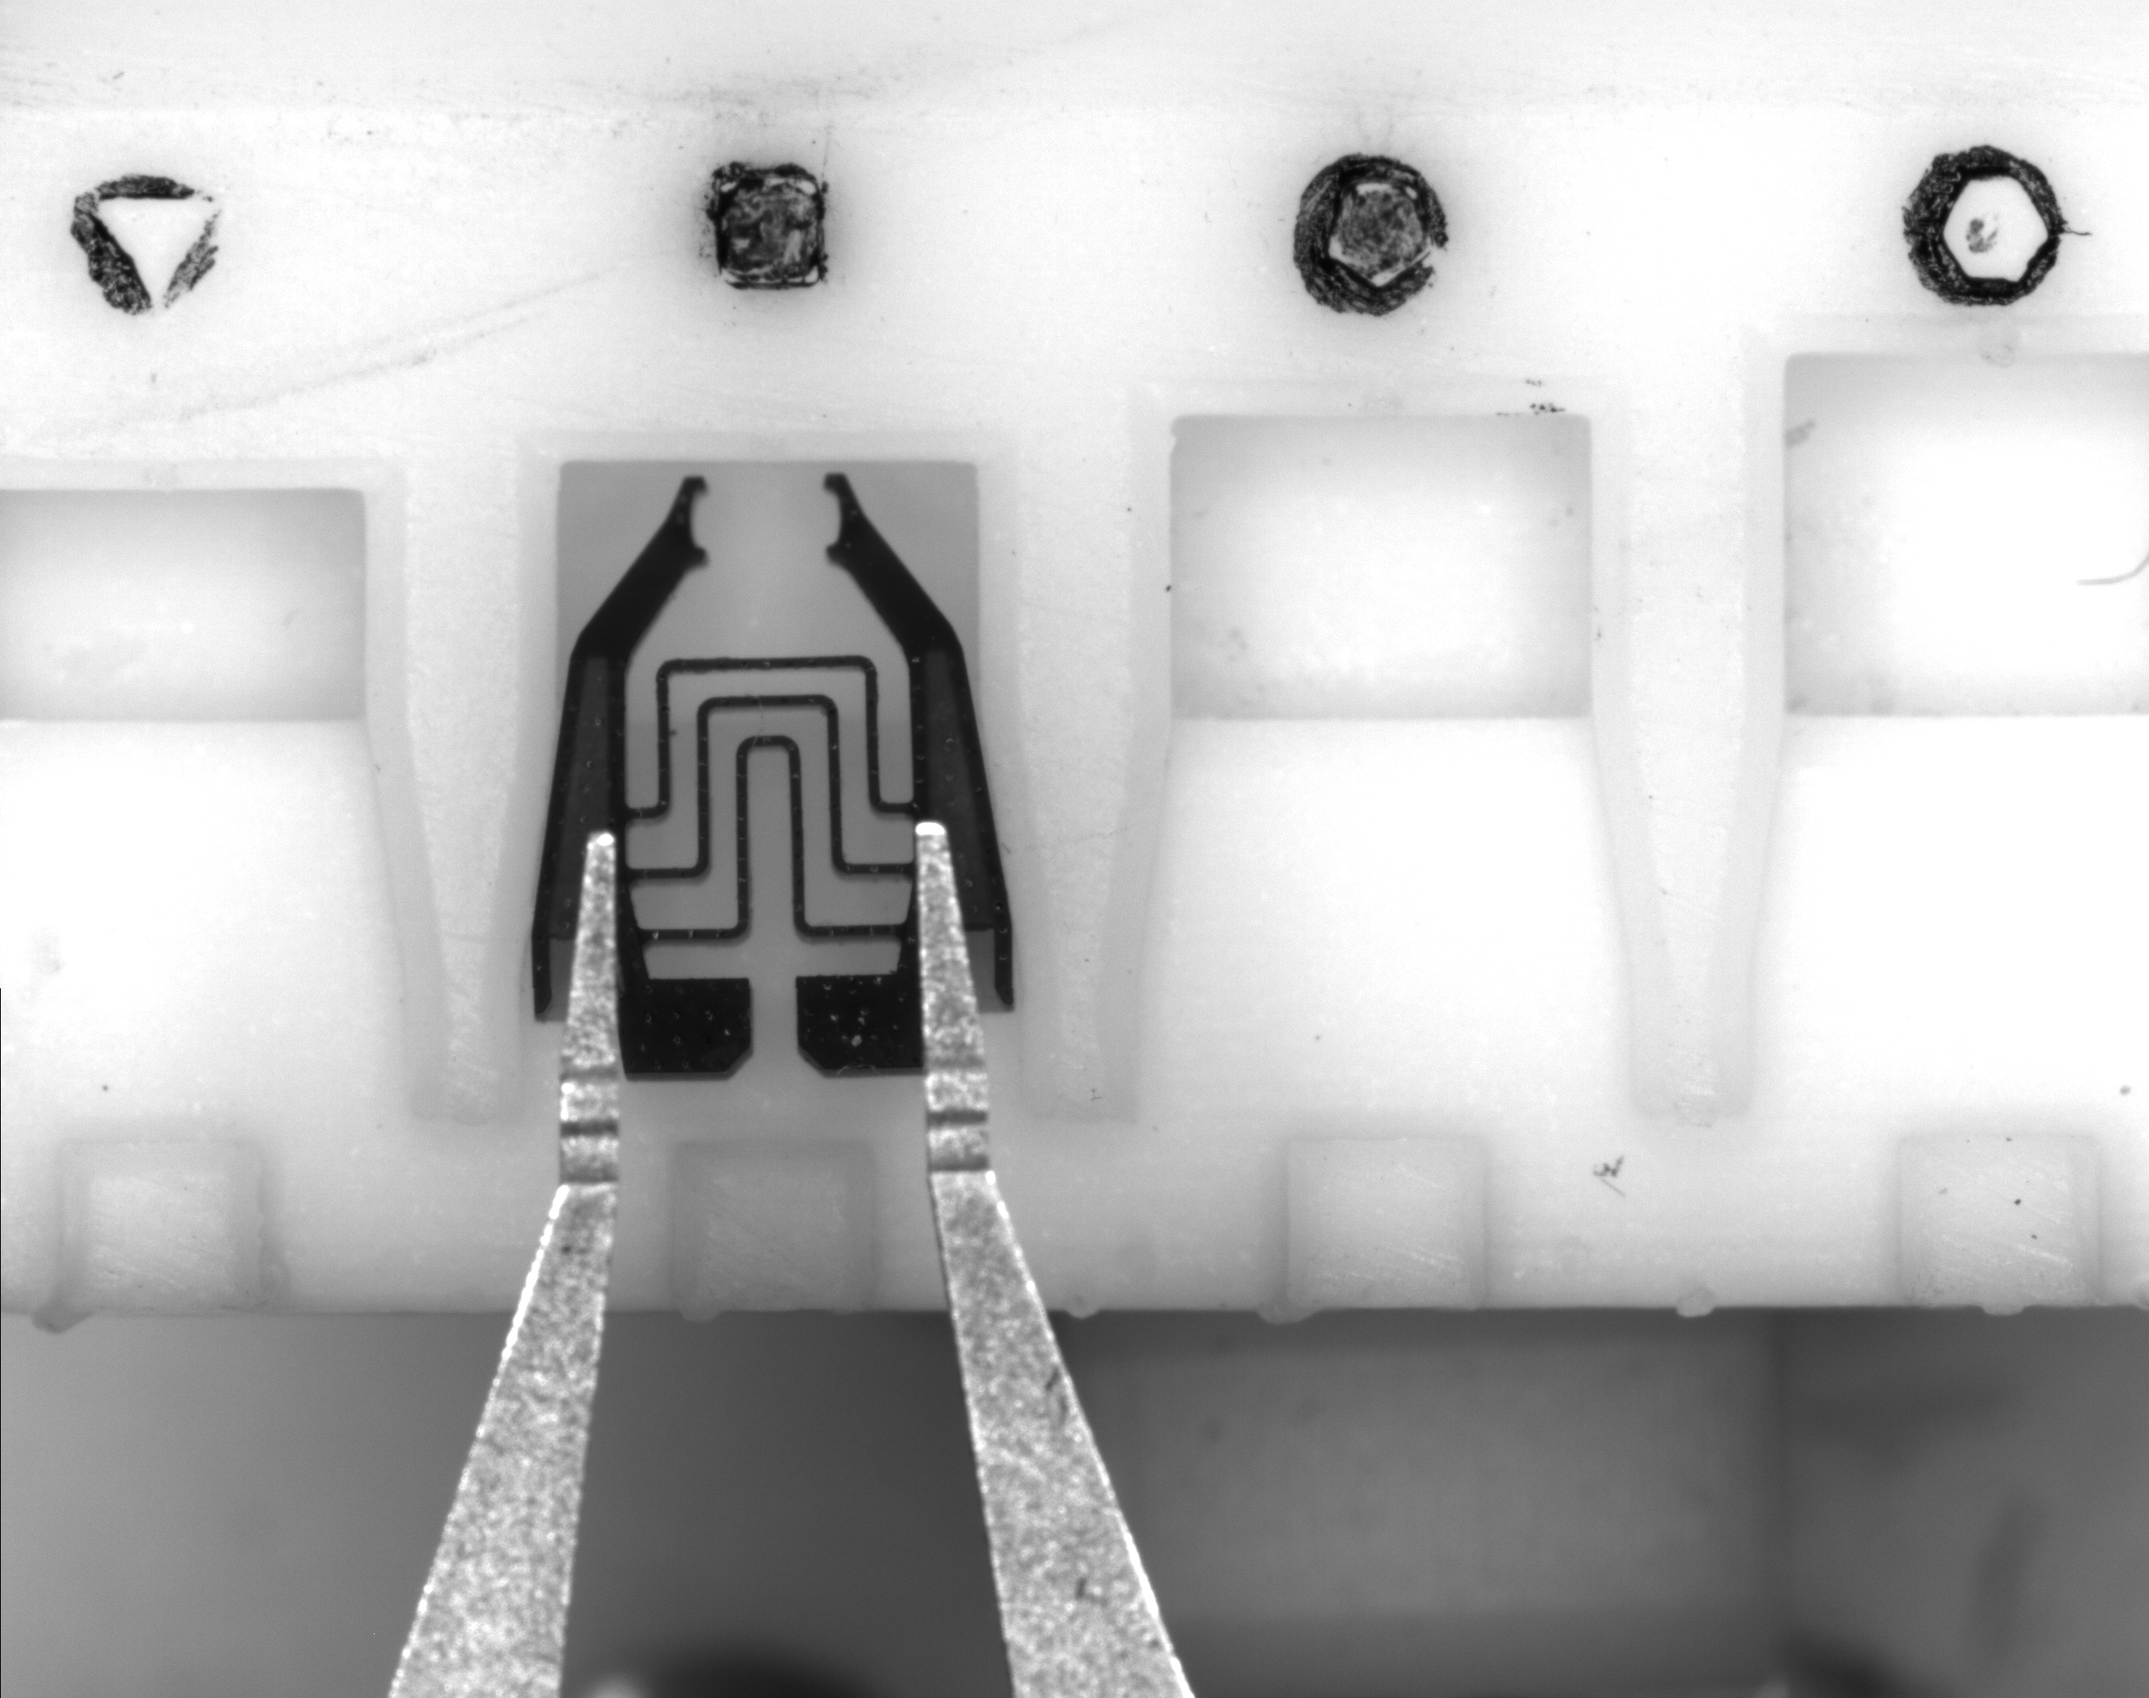
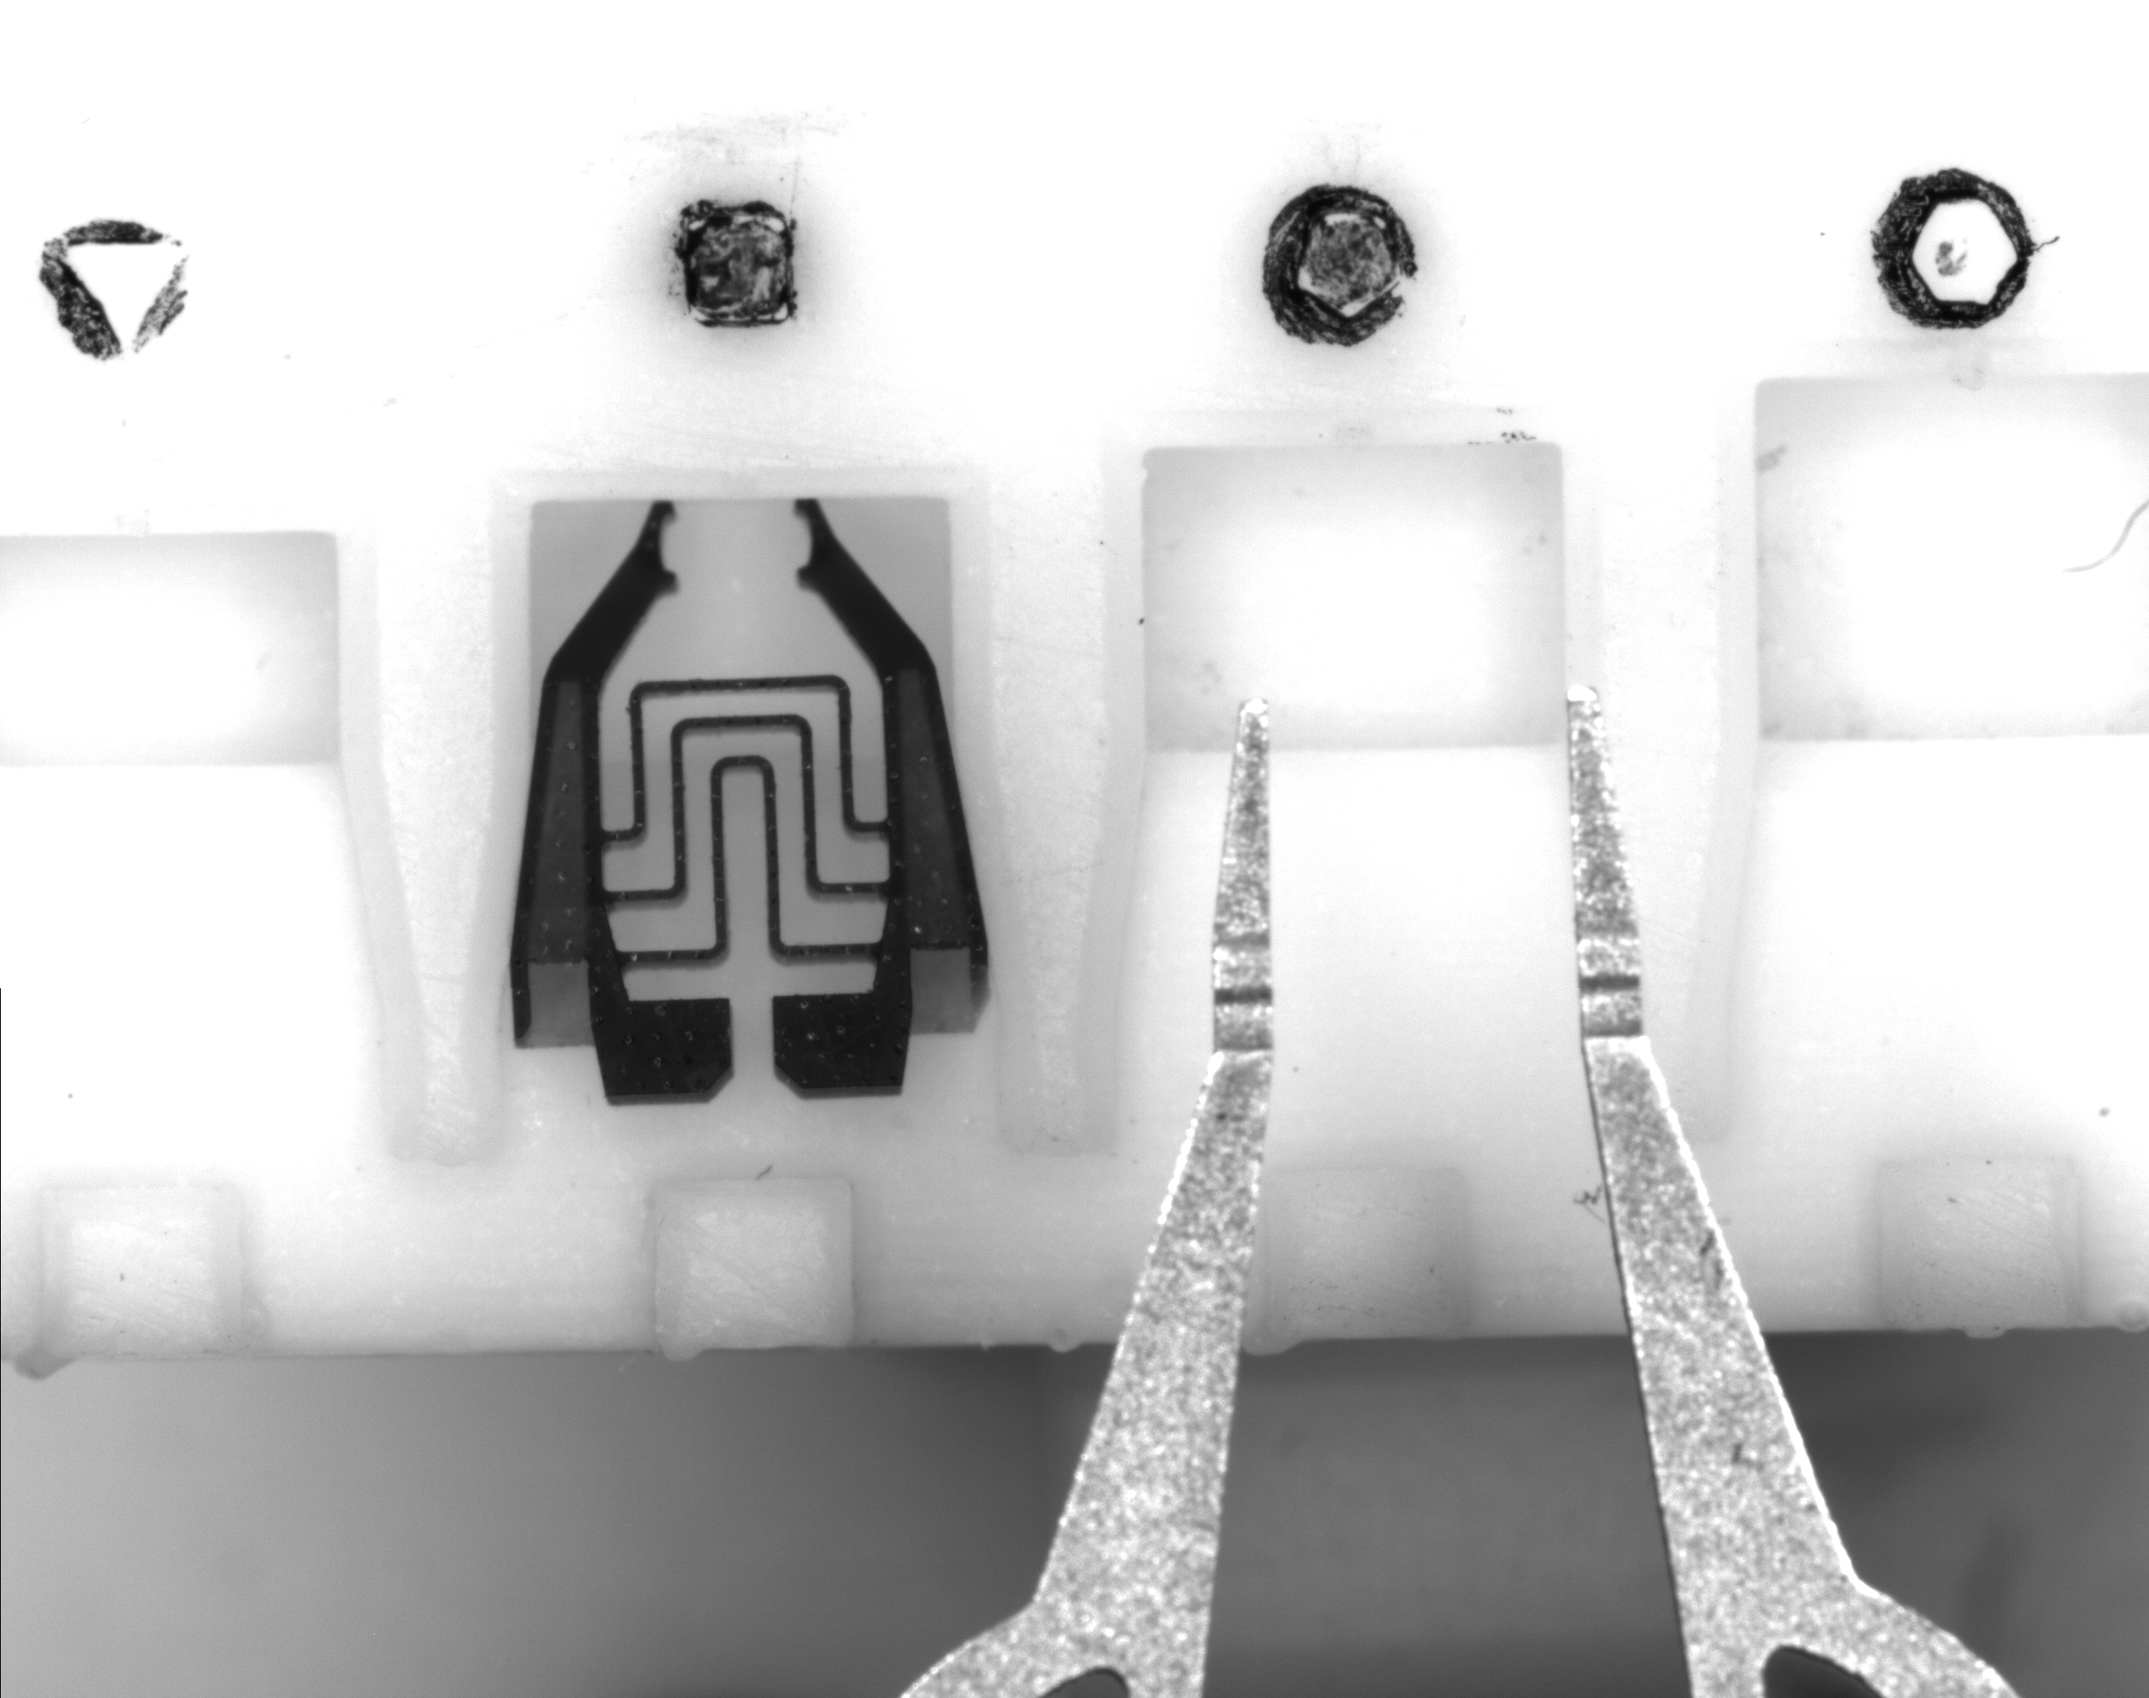
简单调试

diff --git a/test.cpp b/test.cpp
@@ -11,23 +11,23 @@ int main() {
     std::cout << "Hello Robot!" << std::endl;
     D5R::D5Robot robot;
 
-    // try {
-    //     robot.InitNator();
-    // } catch (D5R::RobotException &e) {
-    //     std::cout << e.what() << std::endl;
-    // }
+    try {
+        robot.InitNator();
+    } catch (D5R::RobotException &e) {
+        std::cout << e.what() << std::endl;
+    }
 
-    // try {
-    //     robot.InitRMD(port.c_str());
-    // } catch (D5R::RobotException &e) {
-    //     std::cout << e.what() << std::endl;
-    // }
+    try {
+        robot.InitRMD(port.c_str());
+    } catch (D5R::RobotException &e) {
+        std::cout << e.what() << std::endl;
+    }
 
-    // try {
-    //     robot.InitTopCamera();
-    // } catch (D5R::RobotException &e) {
-    //     std::cout << e.what() << std::endl;
-    // }
+    try {
+        robot.InitTopCamera();
+    } catch (D5R::RobotException &e) {
+        std::cout << e.what() << std::endl;
+    }
 
     // try {
     //     robot.InitBotCamera();
@@ -35,44 +35,16 @@ int main() {
     //     std::cout << e.what() << std::endl;
     // }
 
-    // robot.JointsMoveAbsolute({0, 0, 8000000, 8300000, 0});
-    // robot.JointsMoveAbsolute({0, 0, 8000000, 0, 0});
-    cv::Mat img = cv::imread("../test/debug/image/output/clamp_bot.png");
-    Test_GetClampTemplate_BotC(img);
+    // robot.JointsMoveAbsolute({0, 0, 10000000, 8000000, 0});
+    // robot.JointsMoveAbsolute({0, -8000000, 14000000, 0, -100});
+    // cv::Mat img = cv::imread("../test/debug/image/output/clamp_bot.png");
+    // Test_GetClampTemplate_BotC(img);
     // Test_GetSIFTParam(temp, CLAMP);
-    // Test_GetAndSaveImg(robot.topCamera);
+    robot.JointsMoveRelative({0, 0, 0, 5000000, 0});
+    Test_GetAndSaveImg(robot.topCamera);
+    // Test_GetAndSaveImg(robot.botCamera);
 
     // robot.VCJawChange();
 
     return 0;
 }
-
-// cv::waitKey(0);
-// cv::Point2f d(567, 475);
-// cv::Mat img;
-// robot.topCamera->Read(img);
-// robot.topCamera->GetROI(img);
-// // 获取一次钳口位置信息
-// std::vector<cv::Point2f> jawPos;
-// robot.topCamera->SIFT(img, JAW, jawPos);
-// float jawAngle = atan2f(jawPos[1].y - jawPos[0].y, jawPos[1].x - jawPos[0].x) * (-180) / CV_PI;
-// std::vector<cv::Point2f> clampPos;
-// robot.topCamera->SIFT(img, CLAMP, clampPos);
-// // cv::line(img, jawPos[0] + d, jawPos[1] + d, cv::Scalar(0), 2);
-// cv::line(img, clampPos[0] + d, clampPos[1] + d, cv::Scalar(0), 10);
-// std::string winname = "test";
-// cv::namedWindow(winname, cv::WINDOW_NORMAL);
-// cv::resizeWindow(winname, cv::Size(1295, 1024));
-// cv::imshow(winname, img);
-// cv::waitKey(0);
-
-// cv::Mat img = cv::imread("E:/WYL_workspace/D5RC/image/12_7/topC_0.png", 0);
-// robot.topCamera->GetROI(img);
-// std::vector<cv::Point2f> jawPos;
-// robot.topCamera->SIFT(img, JAW, jawPos);
-// float jawAngle = atan2f(jawPos[1].y - jawPos[0].y, jawPos[1].x - jawPos[0].x) * (-180) / CV_PI;
-// std::vector<cv::Point2f> clampPos;
-// robot.topCamera->SIFT(img, CLAMP, clampPos);
-// float clampAngle = atan2f(clampPos[0].y - clampPos[1].y, clampPos[0].x - clampPos[1].x) * (-180) / CV_PI;
-// // cv::line(img, jawPos[0] + d, jawPos[1] + d, cv::Scalar(0), 2);
-// std::cout << "sdfa  " << jawAngle << "  sdf   " << clampAngle << std::endl;

diff --git a/test/debug/Visual.hpp b/test/debug/Visual.hpp
@@ -26,7 +26,7 @@ void Test_GetAndSaveImg(D5R::CameraTop *topCamera) {
     cv::Mat img_top;
     while (topCamera->Read(img_top)) {
 
-        cv::line(img_top, cv::Point(100, 1600), cv::Point(1800, 1600), cv::Scalar(0), 2);
+        // cv::line(img_top, cv::Point(100, 1620), cv::Point(1800, 1620), cv::Scalar(0), 2);
         cv::imshow(win_name, img_top);
         if (cv::waitKey(1) == 27) {
             break;
@@ -552,10 +552,13 @@ void Test_GetClampTemplate_BotC(cv::Mat img) {
     cv::resizeWindow(win_name, cv::Size(1400, 500));
     cv::Mat gray;
     cv::cvtColor(img, gray, cv::COLOR_BGR2GRAY);
-    // cv::circle(img, cv::Point2f(75, 85), 2, cv::Scalar(0, 0, 255));
-    // cv::circle(img, cv::Point2f(455, 86), 2, cv::Scalar(0, 0, 255));
-    // cv::circle(img, cv::Point2f(465, 86), 2, cv::Scalar(0, 0, 255));
-    // cv::circle(img, cv::Point2f(475, 86), 2, cv::Scalar(0, 0, 255));
+    cv::circle(img, cv::Point2f(75, 85), 2, cv::Scalar(0, 0, 255));
+    cv::circle(img, cv::Point2f(455, 86), 2, cv::Scalar(0, 0, 255));
+    cv::circle(img, cv::Point2f(465, 86), 2, cv::Scalar(0, 0, 255));
+    cv::circle(img, cv::Point2f(475, 86), 2, cv::Scalar(0, 0, 255));
+    cv::imshow(win_name, img);
+    cv::waitKey(0);
+    return;
     cv::Mat bin;
     cv::threshold(gray, bin, 25, 255, cv::THRESH_BINARY_INV);
     cv::imshow(win_name, bin);

diff --git a/src/D5Robot.cpp b/src/D5Robot.cpp
@@ -13,7 +13,7 @@
 
 namespace D5R {
 
-Joints JAWPOINT{0, 0, 8000000, 0, 0}; // 钳口位置，需要实验确定
+Joints JAWPOINT{0, 0, 7500000, 0, 0}; // 钳口位置，需要实验确定
 
 D5Robot::D5Robot() {}
 
@@ -207,6 +207,7 @@ void D5Robot::VCJawChange() {
     }
     // 初始位置
     JointsMoveAbsolute(JAWPOINT);
+    Sleep(2000);
     // 获取ROI区域
     cv::Mat img;
     topCamera->Read(img);
@@ -232,15 +233,15 @@ void D5Robot::VCJawChange() {
     }
 
     // 下移
-    JointsMoveRelative({0, 0, 0, 8200000, 0}); //有问题~
+    JointsMoveRelative({0, 0, 0, 7500000, 0}); // 有问题~
 
     // // 插入
     posError.clear();
     posError = topCamera->GetPhysicError(Fine);
     pError = {posError[1], posError[0], 0, 0, posError[2]};
     while (abs(pError.Px) > 0.1 || abs(pError.Py) > 0.1 || abs(pError.Rz) > 0.1) {
-        if(abs(pError.Rz > 3)){
-            JointsMoveRelative({0, -1000000, 0, 0, 0});
+        if (abs(pError.Rz) > 5) {
+            JointsMoveRelative({0, 0, -1000000, 0, 0});
             Sleep(500);
             posError.clear();
             posError = topCamera->GetPhysicError(Fine);
